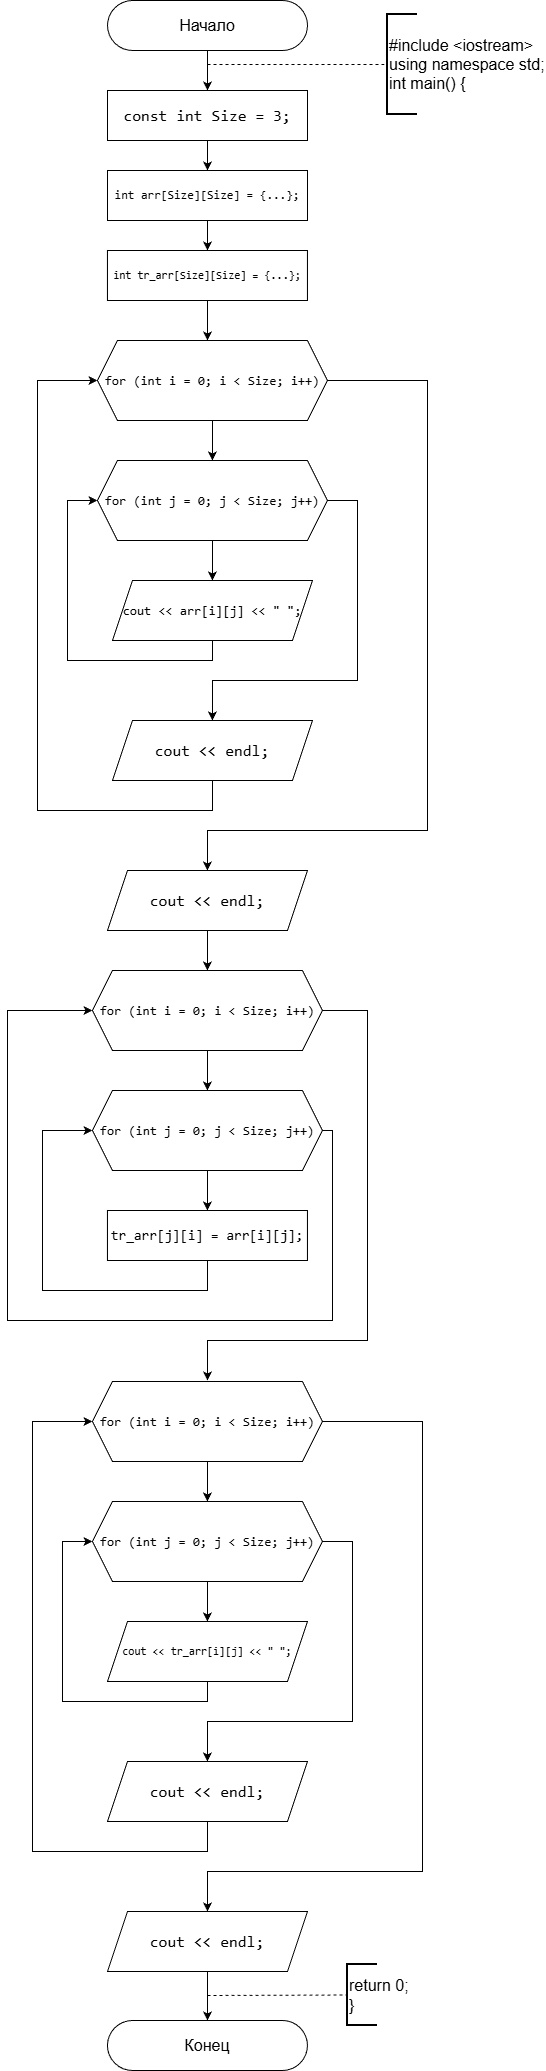
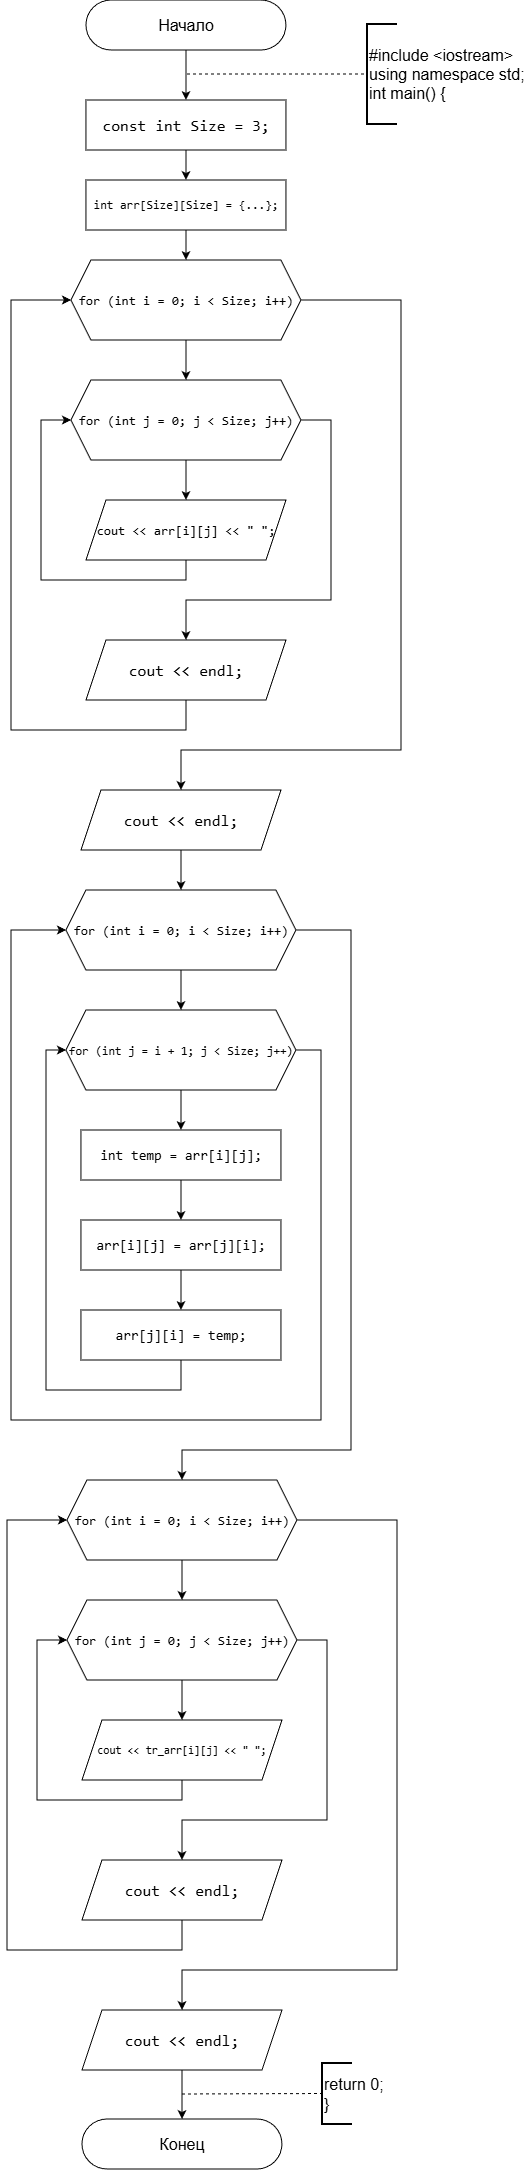
Fixed 3.10

diff --git a/Sem_2/static_arrays/3_10/3_10_task.cpp b/Sem_2/static_arrays/3_10/3_10_task.cpp
@@ -9,7 +9,7 @@ int main() {
         {4, 5, 6},
         {7, 8, 9}
     };
-    int tr_arr[Size][Size];
+    
 
     for (int i = 0; i < Size; i++) {
         for (int j = 0; j < Size; j++) {
@@ -20,14 +20,16 @@ int main() {
     cout << endl;
 
     for (int i = 0; i < Size; i++) {
-        for (int j = 0; j < Size; j++) {
-            tr_arr[j][i] = arr[i][j];
+        for (int j = i + 1; j < Size; j++) {
+            int temp = arr[j][i];
+            arr[j][i] = arr[i][j];
+            arr[i][j] = temp;
         }
     }
 
     for (int i = 0; i < Size; i++) {
         for (int j = 0; j < Size; j++) {
-            cout << tr_arr[i][j] << " ";
+            cout << arr[i][j] << " ";
         }
         cout << endl;
     }
